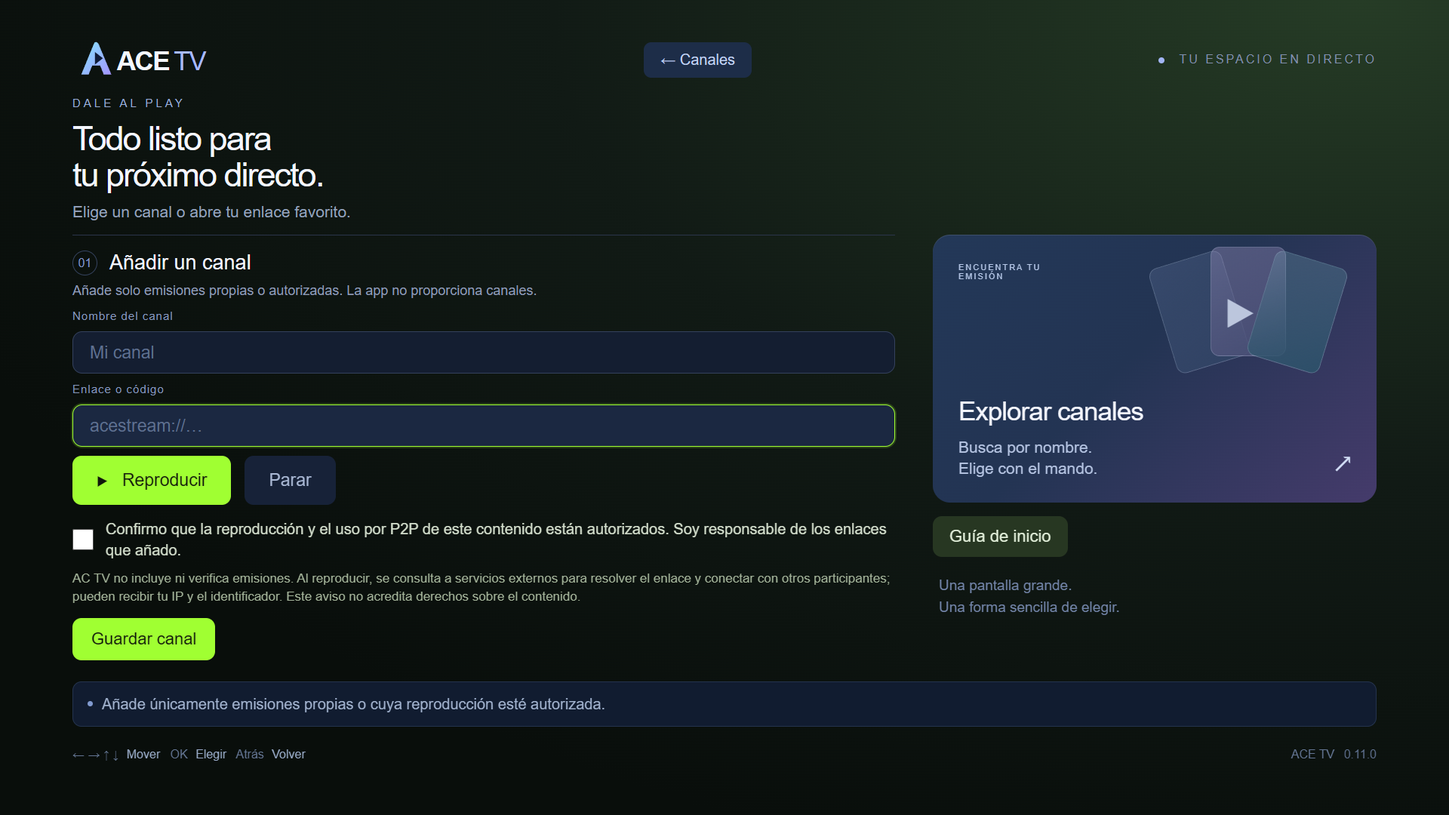
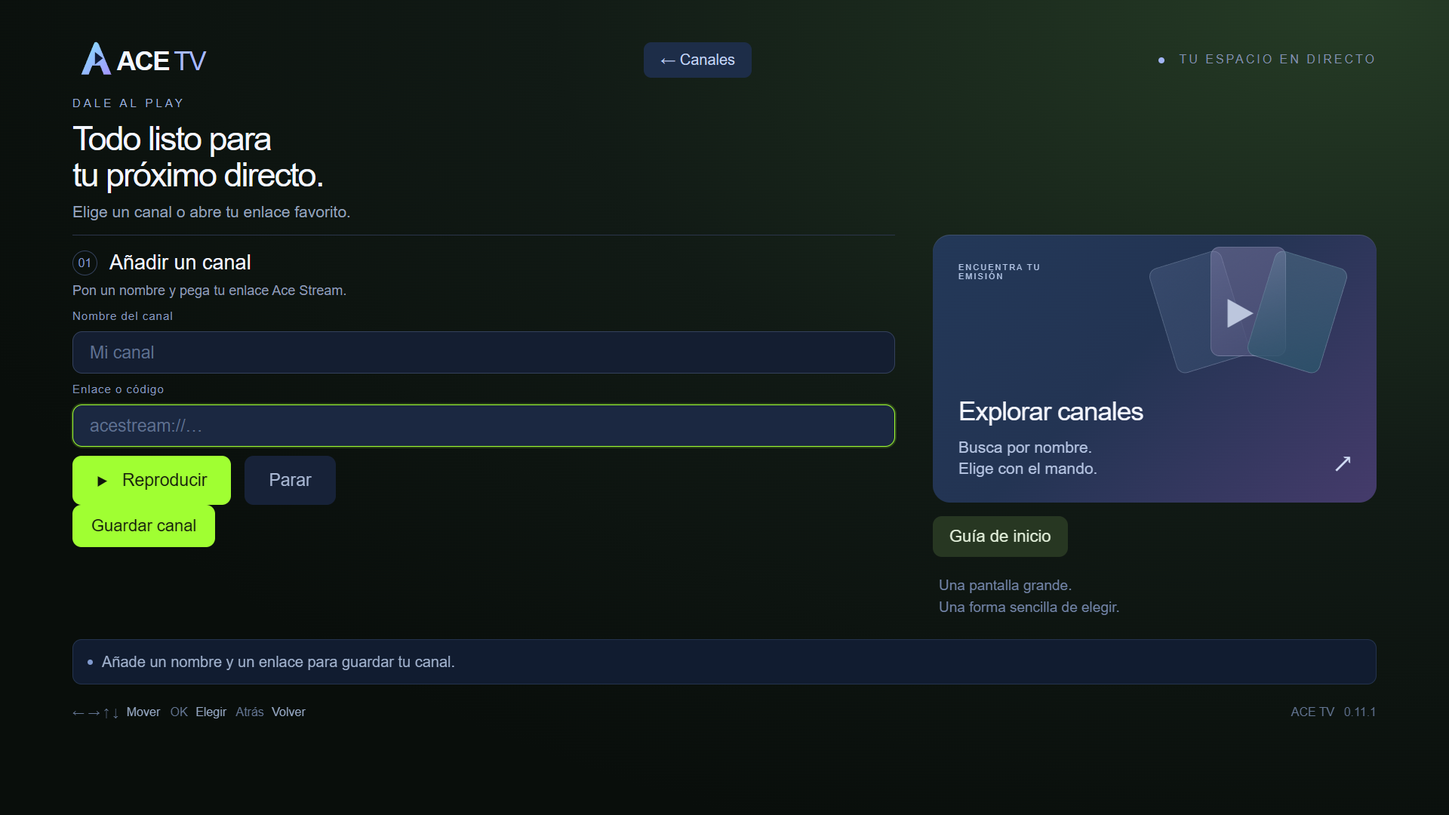
Remove mandatory acceptance and add local Codex and Claude installation tutorials

Changed region(s): [[0.0312, 0.6111, 0.9688, 0.9472], [0.0312, 0.3361, 0.375, 0.3667]]

diff --git a/work/acetv-native-app/app.js b/work/acetv-native-app/app.js
@@ -1,6 +1,6 @@
 (function(){'use strict';
 var $=function(id){return document.getElementById(id)},av=window.webapis&&webapis.avplay,serial=0,requests=[],command=null,phase='idle',watchdog=null,hudTimer=null,origin=null,viewport={left:0,top:0,width:1920,height:1080};
-var fields=[$('engine'),$('source'),$('play'),$('explore'),$('check'),$('import-pc'),$('stop'),$('backguide'),$('setup'),$('channel-name'),$('authorized'),$('save-channel')];
+var fields=[$('engine'),$('source'),$('play'),$('explore'),$('check'),$('import-pc'),$('stop'),$('backguide'),$('setup'),$('channel-name'),$('save-channel')];
 var recoveryAttempts=0,totalRecoveries=0,recoveryTimer=null,recovering=false,displayTimer=null,playbackMonitorTimer=null,playbackMonitorStatus='idle',playbackLastTime=null,playbackLastSampleAt=0,playbackLastAdvanceAt=0,playbackHealthyMs=0;
 function readAvPlaybackTime(){try{if(av&&typeof av.getCurrentTime==='function'){var value=av.getCurrentTime();return typeof value==='number'&&isFinite(value)&&value>=0?value:null;}}catch(e){}return null;}
 function clearPlaybackMonitor(state){clearTimeout(playbackMonitorTimer);playbackMonitorTimer=null;playbackLastTime=null;playbackLastSampleAt=0;playbackLastAdvanceAt=0;playbackHealthyMs=0;if(state)playbackMonitorStatus=state;}
@@ -34,8 +34,7 @@ function check(){var base;try{base=AceCore.engine($('engine').value);if(!base)th
 if($('loading-retry'))$('loading-retry').onclick=function(){if(window.AceGuide&&AceGuide.preparePlayback)AceGuide.preparePlayback();start();};
 if($('loading-back'))$('loading-back').onclick=function(){stop();if(window.AceGuide)AceGuide.open();};
 document.addEventListener('keydown',function(e){var box=$('channel-loading');if(!box||box.hidden)return;var k=e.keyCode;if([13,27,37,38,39,40,10009,413].indexOf(k)<0)return;e.preventDefault();e.stopImmediatePropagation();if(k===27||k===10009||k===413){stop();if(window.AceGuide)AceGuide.open();return;}if(box.getAttribute('data-mode')==='error'){if(k===37||k===38)$('loading-retry').focus();if(k===39||k===40)$('loading-back').focus();if(k===13)document.activeElement.click();}},true);
-function allowed(){var c=$('authorized');if(c&&!c.checked){status('Confirma que tienes autorización para reproducir este contenido.');c.focus();return false;}return true;}
-$('play').onclick=function(){if(allowed())start();};if($('save-channel'))$('save-channel').onclick=function(){if(!allowed())return;var result=AceCatalog.addChannel($('channel-name').value,$('source').value,true);status(result.message);if(result.ok){AceCatalog.open();AceCatalog.search($('channel-name').value);AceGuide.status(result.message);}};if($('source').addEventListener)$('source').addEventListener('input',function(){if($('authorized'))$('authorized').checked=false;});$('check').onclick=check;$('stop').onclick=function(){stop('Reproducción detenida.')};
+$('play').onclick=start;if($('save-channel'))$('save-channel').onclick=function(){var result=AceCatalog.addChannel($('channel-name').value,$('source').value);status(result.message);if(result.ok){AceCatalog.open();AceCatalog.search($('channel-name').value);AceGuide.status(result.message);}};$('check').onclick=check;$('stop').onclick=function(){stop('Reproducción detenida.')};
 document.addEventListener('keydown',function(e){var key=e.keyCode;if(key===10009||key===27){e.preventDefault();if(document.activeElement.tagName==='INPUT'){document.activeElement.blur();$('play').focus();return}if(phase!=='idle'){stop('Reproducción detenida.');$('play').focus()}else if(window.tizen)tizen.application.getCurrentApplication().exit();return}if(phase==='playing'||phase==='paused'){e.preventDefault();if(key===13||key===10252){try{if(phase==='playing'){if(av)av.pause();else $('browser-player').pause();setPhase('paused')}else{if(av)av.play();else $('browser-player').play();setPhase('playing')}showHud()}catch(err){fail('No se pudo cambiar la reproducción.')}}else if(key===413){stop('Reproducción detenida.');$('play').focus()}else showHud();return}if(key===38||key===40||((key===37||key===39)&&document.activeElement.tagName!=='INPUT')){e.preventDefault();var r=document.activeElement.getBoundingClientRect(),x=r.left+r.width/2,y=r.top+r.height/2,best=null,score=Infinity;fields.forEach(function(n){if(!n||n===document.activeElement)return;var b=n.getBoundingClientRect();if(!b.width||!b.height)return;var dx=b.left+b.width/2-x,dy=b.top+b.height/2-y,p=key===37?-dx:key===39?dx:key===38?-dy:dy,q=key===37||key===39?Math.max(0,r.top-b.bottom,b.top-r.bottom):Math.max(0,r.left-b.right,b.left-r.right);if(p>8&&p+q*3<score){score=p+q*3;best=n}});if(best)best.focus()}});
 document.addEventListener('visibilitychange',function(){if(document.hidden)stop('Reproducción detenida al salir de la app.')});window.addEventListener('unload',function(){stop()});
 try{var saved=localStorage.getItem('ace-tv.engine');if(saved&&AceCore.engine(saved))$('engine').value=AceCore.engine(saved)}catch(e){}try{if(window.tizen)['MediaPlayPause','MediaStop','ChannelUp','ChannelDown','ColorF2Yellow'].forEach(function(k){tizen.tvinputdevice.registerKey(k)})}catch(e){}

diff --git a/work/acetv-native-app/index.html b/work/acetv-native-app/index.html
@@ -2,7 +2,7 @@
 <object id="native-player" type="application/avplayer"></object><video id="browser-player"></video>
 <main id="panel"><header><img class="brand" src="brand-acetv.svg" alt="Ace TV"><button id="backguide" class="back-guide">← Canales</button><div class="header-note"><span class="tiny-dot"></span> TU ESPACIO EN DIRECTO</div></header>
 <section class="heading"><span class="eyebrow">DALE AL PLAY</span><h1>Todo listo para<br>tu próximo directo.</h1><p>Elige un canal o abre tu enlace favorito.</p></section>
-<section class="menu-grid"><div class="link-panel"><div class="section-top"><span class="section-number">01</span><h2>Añadir un canal</h2></div><p class="section-copy">Añade solo emisiones propias o autorizadas. La app no proporciona canales.</p><label for="channel-name">Nombre del canal</label><input id="channel-name" placeholder="Mi canal" maxlength="120" autocomplete="off"><label for="source">Enlace o código</label><input id="source" placeholder="acestream://…" spellcheck="false" autocomplete="off"><div class="buttons"><button id="play" class="primary"><span aria-hidden="true">▶</span> Reproducir</button><button id="stop" class="quiet">Parar</button></div><div hidden><input id="engine" value="http://127.0.0.1:6878"><button id="check" hidden></button><button id="import-pc" hidden></button></div><label class="authorized-label"><input id="authorized" type="checkbox"> Confirmo que la reproducción y el uso por P2P de este contenido están autorizados. Soy responsable de los enlaces que añado.</label><p class="responsible-note">AC TV no incluye ni verifica emisiones. Al reproducir, se consulta a servicios externos para resolver el enlace y conectar con otros participantes; pueden recibir tu IP y el identificador. Este aviso no acredita derechos sobre el contenido.</p><button id="save-channel" class="primary">Guardar canal</button></div>
+<section class="menu-grid"><div class="link-panel"><div class="section-top"><span class="section-number">01</span><h2>Añadir un canal</h2></div><p class="section-copy">Pon un nombre y pega tu enlace Ace Stream.</p><label for="channel-name">Nombre del canal</label><input id="channel-name" placeholder="Mi canal" maxlength="120" autocomplete="off"><label for="source">Enlace o código</label><input id="source" placeholder="acestream://…" spellcheck="false" autocomplete="off"><div class="buttons"><button id="play" class="primary"><span aria-hidden="true">▶</span> Reproducir</button><button id="stop" class="quiet">Parar</button></div><div hidden><input id="engine" value="http://127.0.0.1:6878"><button id="check" hidden></button><button id="import-pc" hidden></button></div><button id="save-channel" class="primary">Guardar canal</button></div>
 <div class="browse-panel"><button id="explore" class="explore-card"><span class="explore-art" aria-hidden="true"><i class="art-panel one"></i><i class="art-panel two"></i><i class="art-panel three"></i><b>▶</b></span><span class="explore-kicker">ENCUENTRA TU EMISIÓN</span><strong>Explorar canales</strong><span class="explore-caption">Busca por nombre.<br>Elige con el mando.</span><span class="explore-arrow" aria-hidden="true">↗</span></button><button id="setup" class="setup-launch">Guía de inicio</button><p class="browse-hint">Una pantalla grande.<br>Una forma sencilla de elegir.</p></div></section>
-<div class="status-bar"><span class="status-dot"></span><p id="status" role="status" aria-live="polite">Reproductor sin canales incluidos. Usa únicamente enlaces propios o autorizados.</p></div><footer><span>← → ↑ ↓ <b>Mover</b> &nbsp; OK <b>Elegir</b> &nbsp; Atrás <b>Volver</b></span><span>ACE TV <span class="footer-version">0.11.0</span></span></footer></main>
+<div class="status-bar"><span class="status-dot"></span><p id="status" role="status" aria-live="polite">Añade tus enlaces y guárdalos en esta TV.</p></div><footer><span>← → ↑ ↓ <b>Mover</b> &nbsp; OK <b>Elegir</b> &nbsp; Atrás <b>Volver</b></span><span>ACE TV <span class="footer-version">0.11.1</span></span></footer></main>
 <section id="channel-loading" hidden role="status" aria-live="polite"><div class="loading-content"><span class="loading-brand">▶ AC TV</span><div class="loading-spinner" aria-hidden="true"></div><p id="loading-channel"></p><h1 id="loading-title">Cargando canal…</h1><p id="loading-copy">Enseguida estaremos contigo.</p><div id="loading-actions" hidden><button id="loading-retry">Reintentar</button><button id="loading-back">Volver a canales</button></div><p class="loading-hint">Atrás · Volver a canales</p></div></section><div id="hud" hidden>Ace TV · OK Pausa/Reanudar · Atrás Detener</div><script src="ace-core.js"></script><script src="native-transport.js"></script><script src="app.js"></script><script src="catalog-core.js"></script><script src="favorites-core.js"></script><script src="channel-logos.js"></script><script src="onboarding.js"></script><script src="catalog.js"></script></body></html>

diff --git a/work/acetv-native-app/onboarding.js b/work/acetv-native-app/onboarding.js
@@ -1,1 +1,1 @@
-(function(){'use strict';var KEY='ace-tv.public-use.v1',box;function $(id){return document.getElementById(id);}function finish(add){var saved=true;try{localStorage.setItem(KEY,'seen');}catch(e){saved=false;}box.hidden=true;if(add)AceCatalog.addLink();else AceCatalog.finishSetup(false);if(!saved)AceGuide.status('No se ha podido guardar la preferencia. Tus canales no se han eliminado.');}function open(){if(!window.AceCatalog)return;if(!box){box=document.createElement('section');box.id='first-run';box.hidden=true;box.setAttribute('role','dialog');box.setAttribute('aria-modal','true');box.setAttribute('aria-labelledby','setup-title');box.innerHTML='<div class="setup-card"><div class="setup-brand">▶ AC TV</div><p id="setup-step">SIN CANALES INCLUIDOS</p><h1 id="setup-title">Tu reproductor, tus enlaces</h1><p id="setup-copy">AC TV no proporciona canales, listas ni suscripciones. Añade únicamente emisiones propias o cuya reproducción esté autorizada.</p><p id="setup-message" role="status">Eres responsable de comprobar los permisos de los enlaces que añades. Que un enlace esté en Internet no acredita autorización. Al reproducir se contacta con servicios de metadatos, trackers y otros participantes; pueden recibir tu IP y el identificador del enlace.</p><div id="setup-actions"><button id="setup-start">Entendido, añadir mi enlace</button><button id="setup-later">Continuar sin añadir</button></div><p class="setup-help">Este aviso no garantiza derechos sobre ningún contenido. Flechas · Mover · OK · Elegir</p></div>';document.body.appendChild(box);$('setup-start').onclick=function(){finish(true);};$('setup-later').onclick=function(){finish(false);};}AceCatalog.open();box.hidden=false;$('setup-start').focus();}document.addEventListener('keydown',function(e){if(!box||box.hidden)return;e.stopImmediatePropagation();var k=e.keyCode;if([9,13,27,37,38,39,40,10009].indexOf(k)<0)return;e.preventDefault();if(k===27||k===10009){finish(false);return;}if(k===13){document.activeElement.click();return;}var current=document.activeElement.id==='setup-start';if(k===37||k===38)$('setup-start').focus();else if(k===39||k===40)$('setup-later').focus();else $(current?'setup-later':'setup-start').focus();},true);window.addEventListener('load',function(){if($('setup'))$('setup').onclick=open;var seen=false;try{seen=localStorage.getItem(KEY)==='seen';}catch(e){}if(!seen)open();});window.AceOnboarding={open:open,diagnostics:function(){return {open:!!box&&!box.hidden,stage:'responsible-use'};}};}());
+(function(){'use strict';var box;function $(id){return document.getElementById(id);}function close(add){box.hidden=true;if(add)AceCatalog.addLink();else AceCatalog.finishSetup(false);}function open(){if(!window.AceCatalog)return;if(!box){box=document.createElement('section');box.id='first-run';box.hidden=true;box.setAttribute('role','dialog');box.setAttribute('aria-modal','true');box.setAttribute('aria-labelledby','setup-title');box.innerHTML='<div class="setup-card"><div class="setup-brand">▶ AC TV</div><p id="setup-step">GUÍA RÁPIDA</p><h1 id="setup-title">Añade tu primer canal</h1><p id="setup-copy">Abre Añadir un canal, escribe un nombre y pega el enlace Ace Stream. Después podrás guardarlo y marcarlo como favorito.</p><p id="setup-message">Tus canales se guardan en esta TV. Usa Buscar para encontrarlos por nombre y el botón amarillo para cambiar favoritos.</p><div id="setup-actions"><button id="setup-start">Añadir un canal</button><button id="setup-later">Volver a mis canales</button></div><p class="setup-help">Flechas · Mover · OK · Elegir · Atrás · Volver</p></div>';document.body.appendChild(box);$('setup-start').onclick=function(){close(true);};$('setup-later').onclick=function(){close(false);};}AceCatalog.open();box.hidden=false;$('setup-start').focus();}document.addEventListener('keydown',function(e){if(!box||box.hidden)return;e.stopImmediatePropagation();var k=e.keyCode;if([9,13,27,37,38,39,40,10009].indexOf(k)<0)return;e.preventDefault();if(k===27||k===10009){close(false);return;}if(k===13){document.activeElement.click();return;}if(k===37||k===38)$('setup-start').focus();else if(k===39||k===40)$('setup-later').focus();else $(document.activeElement.id==='setup-start'?'setup-later':'setup-start').focus();},true);window.addEventListener('load',function(){if($('setup'))$('setup').onclick=open;});window.AceOnboarding={open:open,diagnostics:function(){return {open:!!box&&!box.hidden,stage:'quick-help'};}};}());

diff --git a/work/acetv-native-app/streaming.css b/work/acetv-native-app/streaming.css
@@ -63,4 +63,4 @@
 #first-run{position:fixed;z-index:120;left:0;top:0;width:100%;height:100%;display:flex;align-items:center;justify-content:center;background:radial-gradient(ellipse at 80% 20%,#24381c,#090e0b 75%);color:#edf4e8}
 .setup-card{width:88%;max-width:1440px;max-height:94vh;overflow-y:auto;padding:3vh 4vw;background:#10180fe8;border:1px solid #3e5235;border-radius:24px}.setup-brand{font-size:clamp(26px,2.3vw,43px);font-weight:800;color:#a0ff32;margin-bottom:2vh}#setup-step{font-size:clamp(15px,1.1vw,21px);letter-spacing:2px;color:#a6b49b;margin:0 0 1.8vh}#setup-title{font-size:clamp(32px,3vw,58px);letter-spacing:-1px;margin:0 0 1.8vh}#setup-copy{font-size:clamp(20px,1.6vw,30px);color:#becbb4;line-height:1.4;margin:0 0 2vh}#setup-message{font-size:clamp(17px,1.2vw,23px);line-height:1.35;min-height:1.4em;color:#c3dcaf;margin:1.8vh 0}#setup-actions{display:flex;gap:20px;flex-wrap:wrap}#first-run button{border:1px solid #617451;border-radius:12px;padding:1.4vh 1.6vw;font-size:clamp(19px,1.4vw,27px);background:#24301e;color:#eef6e6;transition:box-shadow .2s,border-color .2s}#first-run button:focus{outline:none;transform:none;border-color:#a0ff32;box-shadow:0 0 0 3px #a0ff32;background:#304225;color:#fff}#setup-actions button:first-child{background:#a0ff32;color:#11190b;font-weight:700}#setup-choices{display:grid;grid-template-columns:repeat(3,minmax(0,1fr));gap:14px;max-height:36vh;overflow-y:auto;padding:6px;margin:-6px}#first-run .setup-choice{text-align:left;white-space:nowrap;overflow:hidden;text-overflow:ellipsis}#first-run .setup-choice[aria-pressed="true"]{color:#b8ff79;border-color:#82ae54;background:#21341b}.setup-help{font-size:clamp(15px,1vw,20px);color:#8da17f;margin:2.5vh 0 0}#setup-progress{margin:3vh auto}#panel .setup-launch{display:block;margin-top:18px;padding:14px 22px;font-size:22px;background:#273722;color:#e2efda;border-radius:12px}#panel .setup-launch:focus{outline:3px solid #a0ff32}@media(prefers-reduced-motion:reduce){#first-run button{transition:none}}
 /* Public add-link form; does not affect the separate TV installation. */
-#panel .heading{margin-top:16px}#panel .heading h1{font-size:45px}#panel .heading p{font-size:21px}#panel .menu-grid{margin-top:18px}#panel .section-copy{font-size:18px;margin:10px 0 14px}#panel input:not([type="checkbox"]){height:56px;font-size:23px;margin-bottom:12px}#panel .buttons{margin-top:10px}.authorized-label{display:flex;align-items:center;letter-spacing:0!important;text-transform:none;color:#d5e0ce;font-size:20px;line-height:1.4;margin-top:18px!important}#authorized{display:inline-block;flex:0 0 28px;width:28px;height:28px;margin:0 16px 0 0;padding:0;accent-color:#a0ff32}.responsible-note{font-size:17px;line-height:1.4;color:#a5b59b;margin:10px 0 16px}#save-channel{font-size:22px;padding:15px 25px;border-radius:12px}#setup-message{max-width:1100px}.brand-generic{font-size:33px!important;line-height:1.15!important}#guide-hero-brand .brand-generic{font-size:24px!important}
+#panel .heading{margin-top:16px}#panel .heading h1{font-size:45px}#panel .heading p{font-size:21px}#panel .menu-grid{margin-top:18px}#panel .section-copy{font-size:18px;margin:10px 0 14px}#panel input:not([type="checkbox"]){height:56px;font-size:23px;margin-bottom:12px}#panel .buttons{margin-top:10px}#save-channel{font-size:22px;padding:15px 25px;border-radius:12px}#setup-message{max-width:1100px}.brand-generic{font-size:33px!important;line-height:1.15!important}#guide-hero-brand .brand-generic{font-size:24px!important}

diff --git a/work/acetv-native-app/catalog.js b/work/acetv-native-app/catalog.js
@@ -3,7 +3,7 @@
 var root, active=false, full=false, xhr=null, request=0, page=0, total=0;
 var rows=[], items=[], sourceItems=[], cachedItems=[], localResults=[], index=0, query='', sport=false, onlyFavorites=false;
 var homeMode=true,genre='';
-function addChannel(name,value,authorized){if(authorized!==true)return {ok:false,message:'Confirma que tienes autorización para reproducir esta emisión.'};var parsed=AceCore.parse(String(value||'').trim()),title=cleanText(name,120).trim();if(!parsed||!title)return {ok:false,message:'Escribe un nombre y un enlace Ace Stream compatible.'};var existing=cachedItems.find(function(i){return i.id===parsed.id;});if(existing){if((existing.kind||'infohash')!==parsed.kind)return {ok:false,message:'Este identificador ya existe con otro tipo de enlace. No se ha guardado ni cambiado el canal anterior.'};return {ok:true,message:'Este enlace ya está guardado.'};}if(cachedItems.length>=CHANNEL_CACHE_LIMIT)return {ok:false,message:'La lista de canales está llena.'};var item={id:parsed.id,name:title,kind:parsed.kind};var previous=cachedItems;cachedItems=normalizeChannels(cachedItems.concat([item]));if(!persistChannels()){cachedItems=previous;return {ok:false,message:'No se ha podido guardar el canal. Comprueba el espacio disponible.'};}return {ok:true,message:'Canal guardado en esta TV.'};}
+function addChannel(name,value){var parsed=AceCore.parse(String(value||'').trim()),title=cleanText(name,120).trim();if(!parsed||!title)return {ok:false,message:'Escribe un nombre y un enlace Ace Stream compatible.'};var existing=cachedItems.find(function(i){return i.id===parsed.id;});if(existing){if((existing.kind||'infohash')!==parsed.kind)return {ok:false,message:'Este identificador ya existe con otro tipo de enlace. No se ha guardado ni cambiado el canal anterior.'};return {ok:true,message:'Este enlace ya está guardado.'};}if(cachedItems.length>=CHANNEL_CACHE_LIMIT)return {ok:false,message:'La lista de canales está llena.'};var item={id:parsed.id,name:title,kind:parsed.kind};var previous=cachedItems;cachedItems=normalizeChannels(cachedItems.concat([item]));if(!persistChannels()){cachedItems=previous;return {ok:false,message:'No se ha podido guardar el canal. Comprueba el espacio disponible.'};}return {ok:true,message:'Canal guardado en esta TV.'};}
 
 var current=null, favorites=[], zapTimer=null, lastSection='guide-home';
 try { favorites=FavoritesCore.normalize(JSON.parse(localStorage.getItem('ace-tv.favorites')||'[]')); } catch(e) {}
@@ -165,7 +165,7 @@ function zap(delta) {
 }
 function options() {
   active=false;cancelRequest();clearTimeout(zapTimer);full=false;
-  AceTV.stop('Añade únicamente emisiones propias o cuya reproducción esté autorizada.');root.hidden=true;
+  AceTV.stop('Añade un nombre y un enlace para guardar tu canal.');root.hidden=true;
   document.body.classList.remove('guide-active');size();$('source').focus();
 }
 function sidebar(){return ['guide-home','guide-live','guide-sport','guide-favorites','guide-search','guide-reload','guide-options'];}

diff --git a/docs/INSTALL_WITH_CODEX.md b/docs/INSTALL_WITH_CODEX.md
@@ -1,0 +1,57 @@
+# Instalar con Codex
+
+Esta guía usa Codex para trabajar sobre el repositorio en tu ordenador. El chat en la nube, por sí solo, no puede acceder a la red local de tu casa ni instalar una app en la TV. El ordenador y el televisor deben estar en la misma red.
+
+La instalación necesita herramientas del SDK de Samsung/Tizen, PowerShell 7, el modo desarrollador de la TV y un perfil de firma propio que autorice esa TV. Codex puede guiarte; completa personalmente el inicio de sesión de Samsung y la autorización del certificado.
+
+## 1. Preparar el televisor y el ordenador
+
+1. En la TV, activa **Developer Mode** y añade la dirección IP del ordenador. En muchos modelos se encuentra en **Apps → Settings**: pulsa `12345` con el mando y activa Developer Mode. Los menús varían según modelo.
+2. En el PC, instala Samsung TV Extension/SDK y PowerShell 7. Crea en Certificate Manager tu perfil de firma e incluye el certificado del televisor. Completa tú mismo los inicios de sesión y confirmaciones del navegador y de la TV.
+3. Anota la IP de la TV (`TV_IP`) y el nombre exacto de tu perfil de firma (`MI_PERFIL`). No compartas contraseñas, certificados ni claves privadas con Codex ni los subas a GitHub.
+
+## 2. Clonar y abrir el proyecto local
+
+En PowerShell 7:
+
+```powershell
+git clone https://github.com/DANIRGZ1/ac-tv-samsung.git
+cd ac-tv-samsung
+```
+
+Si aún no tienes la aplicación local, sigue el [inicio oficial de OpenAI](https://learn.chatgpt.com/docs/quickstart), instala la aplicación e inicia sesión. Selecciona Codex y abre la carpeta clonada en tu ordenador. También puedes usar Codex CLI desde la carpeta del proyecto ejecutando `codex`; consulta la [guía oficial de Codex CLI](https://learn.chatgpt.com/docs/cli). La aplicación Codex puede trabajar con una [carpeta local](https://learn.chatgpt.com/docs/quickstart).
+
+## 3. Primero pide solo un diagnóstico
+
+Pega este texto en Codex y sustituye los dos valores. Esta primera fase solo ejecuta la comprobación local: no conecta con la TV, no firma ni instala.
+
+```text
+Trabaja en este repositorio local de ac-tv-samsung. Quiero instalar la app incluida en mi televisor Samsung Tizen, que está en la misma red local que este PC.
+
+Valores: TV_IP=192.168.1.42; MI_PERFIL=MiPerfilTV
+
+Primero, inspecciona docs/INSTALL.md y scripts/install-tv.ps1. Confirma los requisitos y dime qué comandos ejecutarías. Puedes ejecutar únicamente el diagnóstico predeterminado:
+pwsh -File ./scripts/install-tv.ps1 -TvIp 192.168.1.42 -SecurityProfile MiPerfilTV
+
+No uses -Install ni -Launch en esta fase. No cambies archivos, certificados, configuración de la TV ni otras aplicaciones. Si falta algo o el diagnóstico falla, explica cómo resolverlo y espera.
+```
+
+El modo predeterminado comprueba parámetros, herramientas y el manifiesto de la app incluida. No establece conexión de red con el televisor.
+
+## 4. Revisar y autorizar la instalación
+
+Cuando hayas revisado el diagnóstico, confirma en el propio Codex que quieres seguir. Por ejemplo:
+
+```text
+Autorizo ahora la instalación de la app incluida en este repositorio en la TV 192.168.1.42 con mi perfil existente MiPerfilTV. Ejecuta exactamente:
+pwsh -File ./scripts/install-tv.ps1 -TvIp 192.168.1.42 -SecurityProfile MiPerfilTV -Install -Launch
+Antes de ejecutarlo, confirma que este comando instala la app pública AcTVPublic.AceTV. No desinstales apps, no borres datos ni favoritos y no modifiques firmware o ajustes de la TV. Si pide una contraseña, certificado o confirmación de confianza, detente y deja que yo lo gestione localmente.
+```
+
+`-Install` firma la app incluida con el perfil indicado y la instala en la TV; `-Launch` la abre al terminar. El script no desinstala aplicaciones ni borra preferencias. No es una instalación completamente automática: el SDK, el perfil, el permiso del televisor y posibles diálogos requieren tu intervención.
+
+## 5. Después
+
+La app empieza sin canales. Añade únicamente enlaces de contenido que tengas autorización para usar. Consulta [Instalación y primer uso](INSTALL.md) y [Uso responsable](RESPONSIBLE_USE.md).
+
+La instalación física de la versión pública no se ha verificado en una TV real. Si hay errores de conexión o firma, revisa [INSTALL.md](INSTALL.md) y la [guía oficial de conexión de Samsung](https://developer.samsung.com/smarttv/develop/getting-started/using-sdk/tv-device.html).

diff --git a/docs/INSTALL_WITH_CLAUDE.md b/docs/INSTALL_WITH_CLAUDE.md
@@ -1,0 +1,63 @@
+# Instalar con Claude Code
+
+Esta guía usa Claude Code ejecutándose en tu ordenador para trabajar sobre el repositorio local. Claude en la nube, por sí solo, no puede acceder a tu red local ni instalar una app en la TV. El ordenador y el televisor deben estar en la misma red.
+
+Necesitas el SDK de Samsung/Tizen, PowerShell 7, el modo desarrollador de la TV y un perfil de firma propio que autorice esa TV. Claude Code puede guiarte; completa personalmente el inicio de sesión de Samsung y la autorización del certificado.
+
+## 1. Preparar la TV y el PC
+
+1. En la TV, activa **Developer Mode** y añade la IP del ordenador. En muchos modelos está en **Apps → Settings**: pulsa `12345` con el mando y activa Developer Mode. La ubicación puede variar.
+2. Instala Samsung TV Extension/SDK y PowerShell 7 en el PC. En Certificate Manager, crea tu perfil de firma e incluye el certificado de tu televisor. Completa tú mismo las confirmaciones de navegador y de la TV.
+3. Anota la IP de la TV (`TV_IP`) y el nombre exacto del perfil (`MI_PERFIL`). No compartas contraseñas, certificados o claves privadas con Claude Code ni los subas a GitHub.
+
+## 2. Instalar Claude Code y clonar el repositorio
+
+En PowerShell, instala Claude Code con el método oficial de Windows y comprueba que se inicia:
+
+```powershell
+winget install Anthropic.ClaudeCode
+claude --version
+```
+
+Clona el proyecto y entra en su carpeta:
+
+```powershell
+git clone https://github.com/DANIRGZ1/ac-tv-samsung.git
+cd ac-tv-samsung
+claude
+```
+
+La primera vez, Claude Code te pedirá iniciar sesión mediante el navegador. Hazlo tú y revisa los permisos que solicite. Consulta la [guía oficial de inicio rápido de Claude Code](https://code.claude.com/docs/en/quickstart).
+
+## 3. Fase de diagnóstico
+
+Sustituye los valores y pega este prompt en Claude Code. En esta fase se permite solo el diagnóstico local; el script no conecta con la TV, no firma ni instala.
+
+```text
+Trabaja en este repositorio local de ac-tv-samsung. Quiero instalar la app incluida en mi televisor Samsung Tizen, conectado a la misma red local que este PC.
+
+Valores: TV_IP=192.168.1.42; MI_PERFIL=MiPerfilTV
+
+Primero, inspecciona docs/INSTALL.md y scripts/install-tv.ps1. Confirma los requisitos y dime qué comandos ejecutarías. Puedes ejecutar únicamente el diagnóstico predeterminado:
+pwsh -File ./scripts/install-tv.ps1 -TvIp 192.168.1.42 -SecurityProfile MiPerfilTV
+
+No uses -Install ni -Launch en esta fase. No cambies archivos, certificados, configuración de la TV ni otras aplicaciones. Si falta algo o el diagnóstico falla, explica cómo resolverlo y espera.
+```
+
+## 4. Autorizar la instalación expresamente
+
+Revisa el resultado. Si todo está listo, envía un segundo mensaje como este para autorizar el cambio de red e instalación:
+
+```text
+Autorizo ahora la instalación de la app incluida en este repositorio en la TV 192.168.1.42 con mi perfil existente MiPerfilTV. Ejecuta exactamente:
+pwsh -File ./scripts/install-tv.ps1 -TvIp 192.168.1.42 -SecurityProfile MiPerfilTV -Install -Launch
+Antes de ejecutarlo, confirma que el comando instala la app pública AcTVPublic.AceTV. No desinstales apps, no borres datos ni favoritos y no modifiques firmware o ajustes de la TV. Si pide una contraseña, certificado o confirmación de confianza, detente y deja que yo lo gestione localmente.
+```
+
+El parámetro `-Install` firma e instala la app incluida con tu perfil; `-Launch` la abre al terminar. El instalador no desinstala aplicaciones ni borra preferencias. El proceso no es completamente automático: la preparación de herramientas, el perfil, la autorización de la TV y posibles diálogos dependen de ti.
+
+## 5. Primer uso y ayuda
+
+La app empieza sin canales. Añade solo enlaces de contenido que tengas autorización para usar. Consulta [Instalación y primer uso](INSTALL.md) y [Uso responsable](RESPONSIBLE_USE.md).
+
+La versión pública no se ha verificado instalada en una TV real. Para errores de firma o conexión, revisa [INSTALL.md](INSTALL.md) y la [documentación oficial de Samsung sobre conexión de la TV](https://developer.samsung.com/smarttv/develop/getting-started/using-sdk/tv-device.html).

diff --git a/README.md b/README.md
@@ -4,17 +4,27 @@
 <p align="center"><strong>Añade tus enlaces. Guarda tus canales. Reproduce con el mando.</strong></p>
 <p align="center">Reproductor experimental para Samsung Tizen con motor P2P integrado y vídeo nativo AVPlay.</p>
 
-<p align="center"><img alt="Versión 0.11.0" src="https://img.shields.io/badge/versi%C3%B3n-0.11.0-a0ff32?labelColor=182016"> <img alt="Tizen 6.5 base comprobada" src="https://img.shields.io/badge/Tizen-6.5_base_comprobada-91b8df?labelColor=182016"> <a href="LICENSE"><img alt="Licencia AGPL 3.0" src="https://img.shields.io/badge/licencia-AGPL--3.0-cccccc?labelColor=182016"></a></p>
+<p align="center"><img alt="Versión 0.11.1" src="https://img.shields.io/badge/versi%C3%B3n-0.11.1-a0ff32?labelColor=182016"> <img alt="Tizen 6.5 base comprobada" src="https://img.shields.io/badge/Tizen-6.5_base_comprobada-91b8df?labelColor=182016"> <a href="LICENSE"><img alt="Licencia AGPL 3.0" src="https://img.shields.io/badge/licencia-AGPL--3.0-cccccc?labelColor=182016"></a></p>
 
 <p align="center"><a href="#galería">Galería</a> · <a href="docs/INSTALL.md">Instalación</a> · <a href="docs/RESPONSIBLE_USE.md">Uso responsable</a> · <a href="CONTRIBUTING.md">Contribuir</a></p>
 
-> **Experimental · Instalación en modo desarrollador.** La versión pública 0.11.0 se inicia vacía. No incluye catálogo de canales ni importa catálogos externos o del PC.
+> **Experimental · Instalación en modo desarrollador.** La versión pública 0.11.1 se inicia vacía. No incluye catálogo de canales ni importa catálogos externos o del PC.
+
+## Instalar con ayuda de una IA
+
+Elige tu guía:
+
+- **[Instalar con Codex](docs/INSTALL_WITH_CODEX.md)** — aplicación local o CLI, con instrucciones para copiar.
+- **[Instalar con Claude Code](docs/INSTALL_WITH_CLAUDE.md)** — desde el ordenador conectado a la misma red que la TV.
+- **[Instalación manual](docs/INSTALL.md)** — comandos del asistente de instalación.
+
+Los tutoriales explican qué puede automatizar la IA y qué debes completar tú: activar el modo desarrollador y preparar tus certificados Samsung.
 
 ## Cómo empezar
 
 En **Ajustes → Añadir un canal**, introduce individualmente un enlace Ace Stream compatible. Ponle el nombre que quieras y guárdalo o reprodúcelo. Los canales guardados y favoritos se buscan localmente en la TV. Las listas M3U no están implementadas.
 
-Añade solo enlaces cuya reproducción y, cuando corresponda, redistribución estén autorizadas. Tú eres responsable de los enlaces que introduces. La confirmación de uso responsable es una declaración del usuario; no verifica derechos ni garantiza que un uso sea legal. Consulta [Uso responsable](docs/RESPONSIBLE_USE.md). P2P puede comunicar tu dirección IP a otros pares.
+Añade solo enlaces cuya reproducción y, cuando corresponda, redistribución estén autorizadas. Tú eres responsable de los enlaces que introduces. La app no exige casillas ni una pantalla de aceptación. Esta descripción informa del uso responsable; no verifica permisos sobre los contenidos. Consulta [Uso responsable](docs/RESPONSIBLE_USE.md). P2P puede comunicar tu dirección IP a otros pares.
 
 ## Galería
 
@@ -28,7 +38,7 @@ Añade solo enlaces cuya reproducción y, cuando corresponda, redistribución es
 
 ## Estado
 
-La versión pública 0.11.0 se probó en escritorio. La base del motor Tizen 6.5 se comprobó previamente; eso no significa que esta versión 0.11.0 se haya instalado físicamente en un televisor. Otros modelos requieren verificación.
+La versión pública 0.11.1 se probó en escritorio. La base del motor Tizen 6.5 se comprobó previamente; eso no significa que esta versión 0.11.1 se haya instalado físicamente en un televisor. Otros modelos requieren verificación.
 
 El proyecto es independiente, no está afiliado a Samsung, Ace Stream ni titulares de marcas. Código bajo AGPL-3.0-or-later; consulta [LICENSE](LICENSE) y avisos upstream. No se incluyen logotipos de canales ni recursos promocionales de TV de pago.
 

diff --git a/docs/INSTALL.md b/docs/INSTALL.md
@@ -2,6 +2,10 @@
 
 AC TV es experimental y requiere modo desarrollador y herramientas del SDK de Samsung. La instalación necesita un perfil y certificados de Samsung propios, válidos para el televisor de destino. No se distribuyen certificados.
 
+## Instalar con un asistente
+
+Puedes seguir el [tutorial para Codex](INSTALL_WITH_CODEX.md) o el [tutorial para Claude Code](INSTALL_WITH_CLAUDE.md). Ambos incluyen un mensaje de diagnóstico y otro de instalación para copiar, trabajando desde tu ordenador en la misma red que la TV.
+
 ## Comprobar
 
 Desde la raíz del repositorio, con PowerShell 7:
@@ -20,7 +24,7 @@ pwsh -File ./scripts/install-tv.ps1 -TvIp 192.168.1.42 -SecurityProfile MiPerfil
 
 Configura Developer Mode en la TV, conecta ordenador y televisor a la misma red y crea un perfil de firma que incluya el dispositivo. El nombre y ruta de los menús varían por modelo. El script no crea certificados ni guarda contraseñas. Una instalación con el mismo ID puede actualizarse conforme al SDK y al televisor.
 
-El instalador se ha verificado con herramientas simuladas; la instalación real requiere el SDK y certificados compatibles. La base de Tizen 6.5 se probó antes, pero no se afirma que la versión pública 0.11.0 se haya instalado físicamente en una TV.
+El instalador se ha verificado con herramientas simuladas; la instalación real requiere el SDK y certificados compatibles. La base de Tizen 6.5 se probó antes, pero no se afirma que la versión pública 0.11.1 se haya instalado físicamente en una TV.
 
 ## Primer uso
 

diff --git a/docs/RESPONSIBLE_USE.md b/docs/RESPONSIBLE_USE.md
@@ -4,7 +4,7 @@ AC TV es un reproductor. La versión pública empieza vacía: no proporciona un 
 
 Añade y utiliza únicamente enlaces cuya reproducción y, cuando corresponda, redistribución estén autorizadas en tu jurisdicción. Tú eres responsable de los enlaces y del uso que hagas de ellos. Guardar un canal lo conserva localmente en la TV; los favoritos también se almacenan allí y la búsqueda se hace sobre esos canales guardados.
 
-La confirmación de uso responsable de la aplicación expresa lo que declara el usuario. No comprueba la titularidad o autorización de un enlace, no constituye asesoramiento jurídico y no garantiza que una actividad concreta cumpla la ley. Las leyes y derechos aplicables dependen del lugar y del contenido.
+La aplicación no exige firmar declaraciones ni marcar una casilla de responsabilidad. Esta información se presenta en la documentación de GitHub; no comprueba la titularidad o autorización de un enlace, no constituye asesoramiento jurídico y no garantiza que una actividad concreta cumpla la ley. Las leyes y derechos aplicables dependen del lugar y del contenido.
 
 La reproducción P2P puede implicar comunicación de tu dirección IP con otros pares. El comportamiento concreto depende del protocolo y del enlace. Usa la aplicación teniendo presente la privacidad de tu conexión.
 

diff --git a/docs/BUILD.md b/docs/BUILD.md
@@ -12,6 +12,6 @@ El resultado es un WGT sin firmar. Para firmar e instalar necesitas Tizen Studio
 
 La reconstrucción de componentes requiere Rust nightly-2026-03-15, wasm-bindgen 0.2.105 y el SDK WebAssembly de Samsung compatible con sockets Tizen. El SDK no se redistribuye. Los scripts `work/build-wire-probe.ps1` y `work/build-live-probe.ps1` describen las rutas de reconstrucción.
 
-El código del motor conserva avisos y licencias upstream; consulta `LICENSE` y `NOTICE.txt`. No se afirma que la versión pública 0.11.0 haya sido instalada físicamente en una TV. La base del motor Tizen 6.5 se comprobó previamente; la versión pública se probó en escritorio.
+El código del motor conserva avisos y licencias upstream; consulta `LICENSE` y `NOTICE.txt`. No se afirma que la versión pública 0.11.1 haya sido instalada físicamente en una TV. La base del motor Tizen 6.5 se comprobó previamente; la versión pública se probó en escritorio.
 
 Al solicitar explícitamente la reproducción de un enlace, el motor puede consultar servicios externos de metadatos, DNS, trackers y pares para resolverlo. Esas conexiones son distintas de descargar un listado de canales; no verifican que el contenido tenga autorización y pueden comunicar la IP y el identificador del enlace a terceros.

diff --git a/docs/GALLERY.md b/docs/GALLERY.md
@@ -34,9 +34,9 @@ Las imágenes que muestran canales usan nombres genéricos. No contienen logos d
 
 ## Primer uso y enlaces propios
 
-La bienvenida informa de que no se incluyen canales y explica la responsabilidad del usuario.
+La guía rápida es opcional y explica cómo añadir un canal. No hay una pantalla de aceptación obligatoria.
 
-![Uso responsable](images/onboarding-welcome.png)
+![Guía rápida opcional](images/onboarding-welcome.png)
 
 El formulario permite guardar un enlace propio con un nombre. No contiene enlaces precargados.
 
